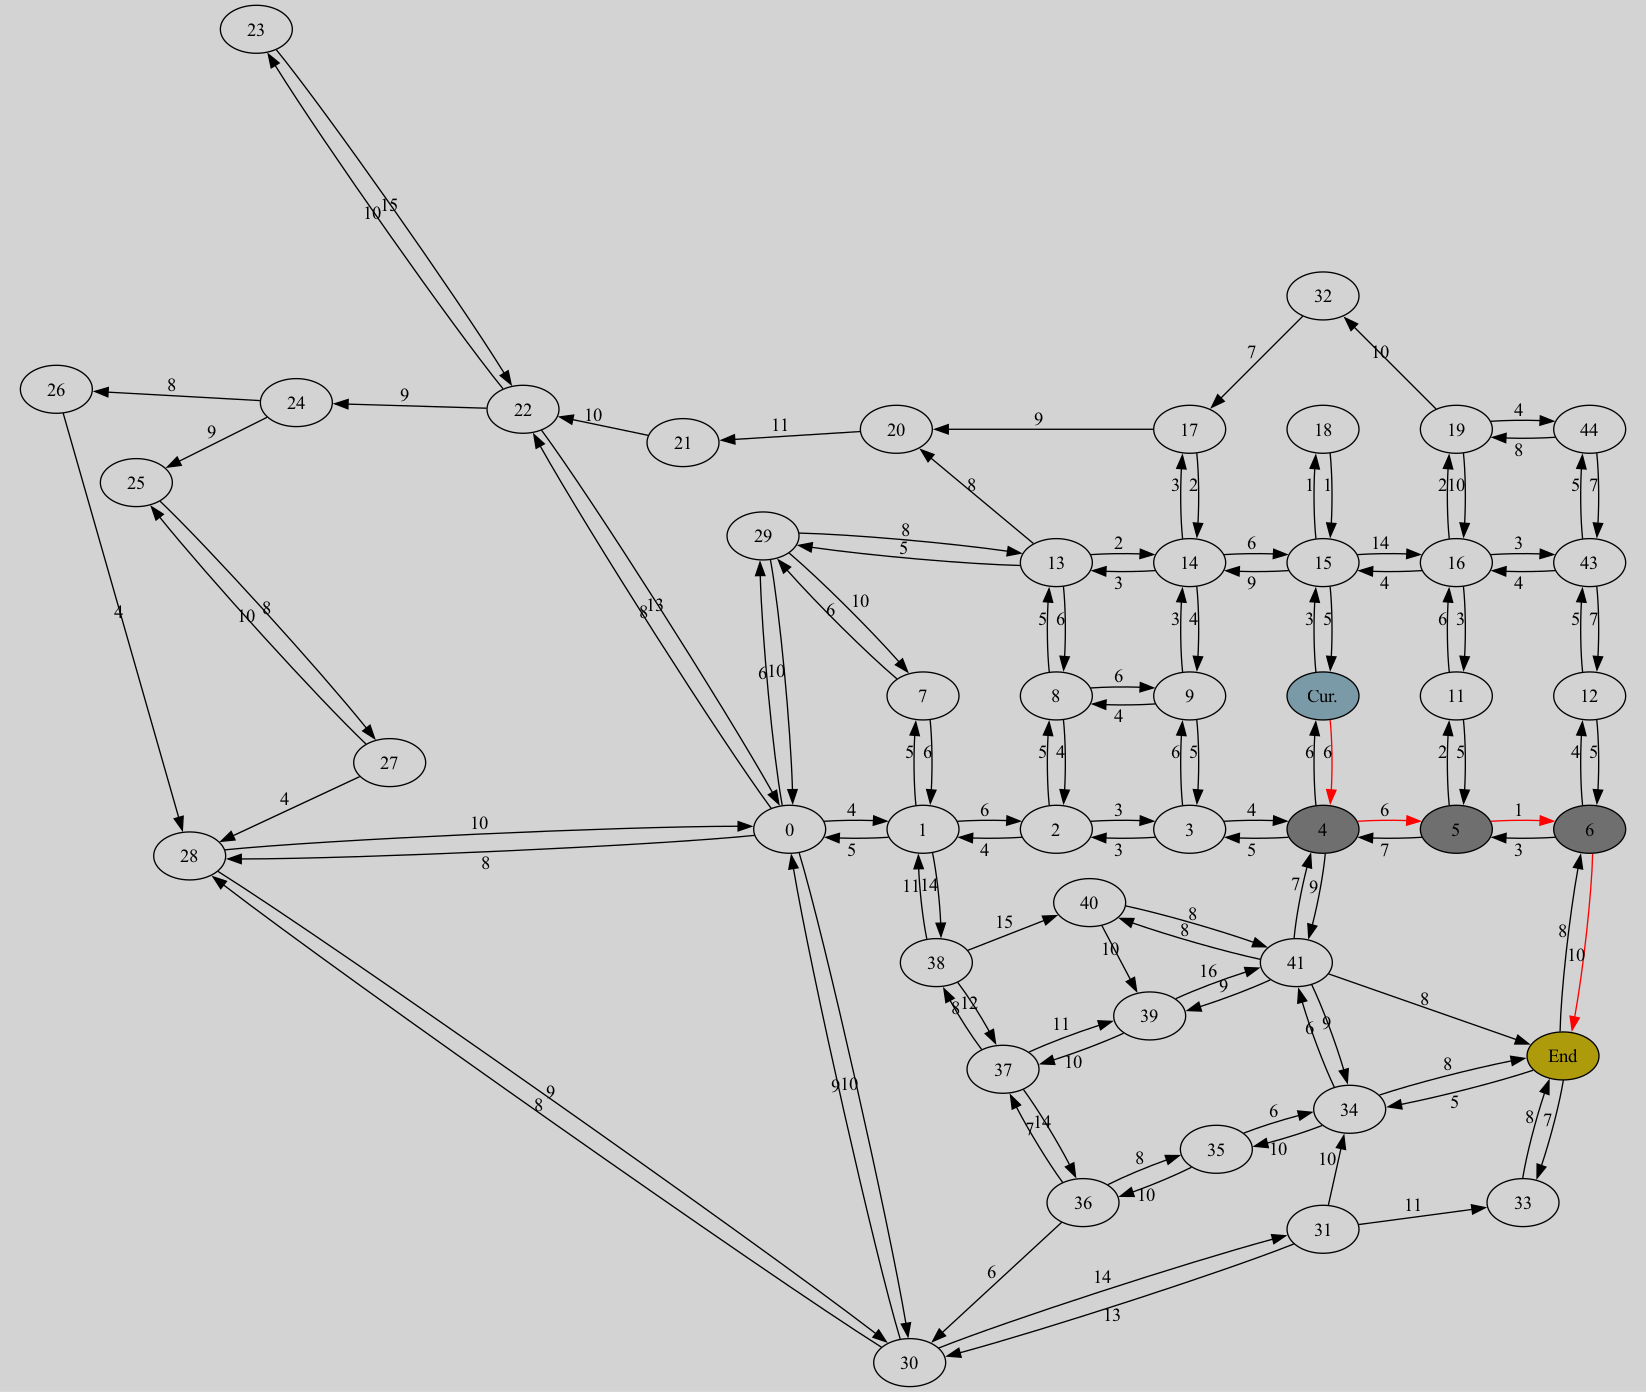
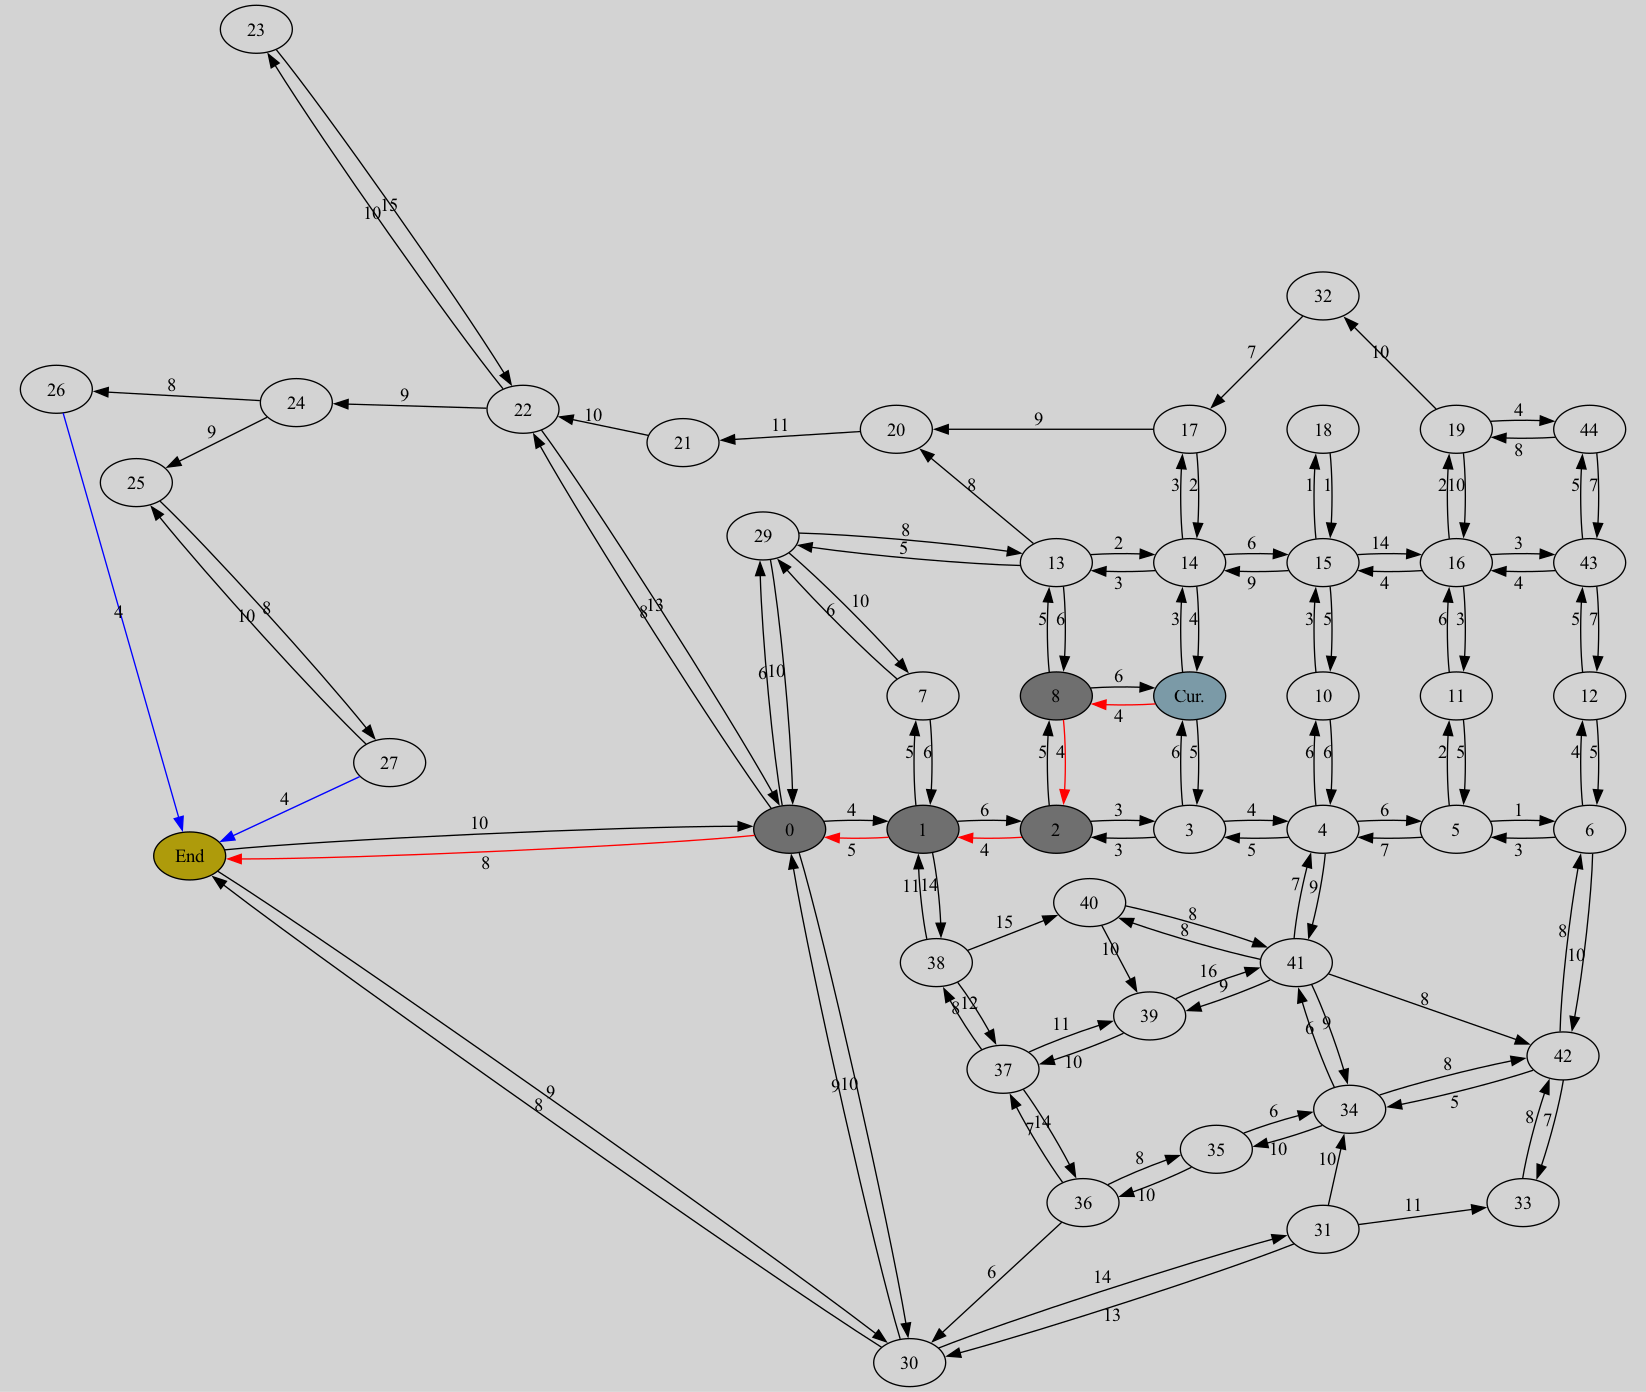
Perform tests

diff --git a/static/test.html b/static/test.html
@@ -131,24 +131,23 @@
                 The image is generated dynamically from C++ programs running on the server. Weights are attached to every arrow (edge, or road).
                 <red>Red</red> arrows represent the paths that the algorithm found. In any given iteration, I left colored all paths explored, in order to show the 
                 algorithm's 'thought process,' so to speak. In the multi-threaded approach in particular, <blu>blue</blu> arrows represent 
-                the path corrected by the auxiliary thread, while the <red>red</red> arrows represent aberrant 
-                <strong>A*</strong> path choices that would have resulted in a wrong decision if we hadn't had the auxiliary thread.
+                the auxiliary thread path, while the <red>red</red> arrows represent <strong>A*</strong> path. One can see the two threads working together to find the shortest path.
             </p>
             <p style="font-size: 15px;">
-                My goal was to find an algorithm that starts at a randomly chosen beginning node ("Cur") and reaches a random destination node ("End"), in the least amount of edge explorations as possible. 
+                My goal was to find an algorithm that finds the shortest path from a random beginning node ("Cur") to a random destination node ("End"), with the lowest amount of computation time possible. 
                 I started with plain <strong>Dijkstra's Algorithm</strong>, but quickly realized how 
-                computationally expensive it is, due to it exploring every node around the starting node. Then I implemented the <strong>A* Algorithm</strong> and 
-                was excited that it took very few path searches. However,
+                computationally expensive it is, due to it exploring every node around the starting node. <strong>Dijkstra's Algorithm</strong> averaged <strong>114.814</strong> microseconds of computation. Then I implemented the <strong>A* Algorithm</strong> and 
+                was excited that it took very few path searches, as it averaged <strong>35.845</strong> microseconds of computation time. However,
                 I realized that this algorithm sometimes stumbled upon incorrect answers (paths that are not the shortest path)
-                because heuristic weighting is not perfect. I then put together a
+                because heuristic weighting is not perfect for this type of graph. I then put together a
                 <strong>Multi-Threaded A*</strong> algorithm that used a main thread based on 
                 <strong>A*</strong>, with an auxiliary thread that spawned on main thread activation.
                 This auxiliary thread is essentially <strong>Dijkstra's Algorithm</strong>. Additionally,
                 I added logic to make sure that the <strong>Multi-Threaded Algorithm</strong> 
                 completes when the main and auxiliary thread paths connect. This parallel algorithm 
                 highly decreased the amount of edges searched compared to 
-                <strong>Dijkstra's Algorithm</strong>, while still maintaining accuracy (unlike the 
-                <strong>A* Algorithm</strong>). The parallel algorithm is the best of both worlds, utilizing a combination of the other two algorithms.
+                <strong>Dijkstra's Algorithm</strong>, while still maintaining extremely high accuracy (unlike the 
+                <strong>A* Algorithm</strong>). This <strong>Multi-Threaded Algorithm</strong> averaged <strong>73.078</strong> microseconds of computation time. The parallel algorithm is the best of both worlds, utilizing a combination of the other two algorithms.
             </p>
         </div>
     </div>

diff --git a/src/graph/Graph.cpp b/src/graph/Graph.cpp
@@ -94,7 +94,7 @@ std::tuple<Vertex, Vertex> Graph::get_random_vertex_pair() {
 
 std::vector<Edge>& Graph::get_solution_edges() { return solution_edges; }
 
-std::vector<Edge>& Graph::get_thread_solution_edges() { return path_edges; }
+std::vector<Edge>& Graph::get_thread_solution_edges() { return thread_solution_edges; }
 
 void Graph::clear_solution() { solution_edges.clear(); }
 
@@ -118,9 +118,9 @@ void Graph::show_solution(int begin, int end, int iteration) {
         else if (v1.val == end) v1_label = "End";  else if (v2.val == end) v2_label = "End";
         color = "black";
         if (is_solution_edge(edge)) { color = "red"; }
-        if (is_thread_solution_edge(edge)) { color = "blue"; }
+        else if (is_thread_solution_edge(edge)) { color = "blue"; }
         v1_shade_str = "", v2_shade_str ="";
-        if (v1.val != begin and v1.val != end and color == "red")  { v1_shade_str = "fillcolor=\"#6f6f6fff\""; }
+        if (v1.val != begin and v1.val != end and color == "red" )  { v1_shade_str = "fillcolor=\"#6f6f6fff\""; }
         if (v2.val != begin and v2.val != end and color == "red")  { v2_shade_str = "fillcolor=\"#6f6f6fff\""; }
         graph_viz_file << "\t" << v1.val << fmt::format(" [label=\"{}\", {}{}{}", (v1_label), (v1.val == begin ? "fillcolor=\"#7b9aa7ff\"" : ""), (v1.val == end ? "fillcolor=\"#ae9b0bff\"" : ""), v1_shade_str) << fmt::format("pos=\"{},{}!\"]", v1.x, v1.y) << std::endl;
         graph_viz_file << "\t" << v2.val << fmt::format(" [label=\"{}\", {}{}{}", (v2_label), (v2.val == begin ? "fillcolor=\"#7b9aa7ff\"" : ""), (v2.val == end ? "fillcolor=\"#ae9b0bff\"" : ""), v2_shade_str) << fmt::format("pos=\"{},{}!\"]", v2.x, v2.y) << std::endl;
@@ -190,7 +190,7 @@ bool Graph::is_solution_edge(Edge edge) {
 }
 
 bool Graph::is_thread_solution_edge(Edge edge) {
-    for (Edge e : path_edges) {
+    for (Edge e : thread_solution_edges) {
         if (e == edge) { return true; }
     }
     return false;
@@ -258,7 +258,7 @@ signed long Graph::potential(Vertex start, Vertex end) {
 
 void Graph::heuristic_reweight(Edge& edge, Vertex leading_vertex, Vertex end) {
     int heuristic = potential(leading_vertex, end);
-    edge.set_weight(edge.get_weight() + heuristic);
+    edge.set_weight(edge.get_weight() + 0.1*heuristic); // To tone down the heuristic reweighting: alpha = 0.1 
 }
 
 void Graph::reweight(Edge& edge, Vertex leading_vertex, Vertex end) {
@@ -321,7 +321,7 @@ void Graph::Serial_A_Star(Vertex start, Vertex end) {
 
         
         if (visited[end.val] == visited[best.get_destination().val]) {  // If vertex found:
-            std::cout << "We found edge number " << end.val << " with " << best.get_destination().val << " !!" << std::endl;
+            // std::cout << "We found edge number " << end.val << " with " << best.get_destination().val << " !!" << std::endl;
             break;
         }
 
@@ -390,7 +390,7 @@ void Graph::Serial_Dijkstra(Vertex start, Vertex end) {
 
         
         if (visited[end.val] == visited[best.get_destination().val]) {  // If vertex found:
-            std::cout << "We found edge number " << end.val << " with " << best.get_destination().val << " !!" << std::endl;
+            // std::cout << "We found edge number " << end.val << " with " << best.get_destination().val << " !!" << std::endl;
             break;
         }
 
@@ -477,8 +477,9 @@ void Graph::Parallel_A_Star(Vertex start, Vertex end) {
             thread_solution_edges.push_back(best);
 
             if (visited[best.get_source().val].load() == 1) { 
-                connections++;
-               if (connections > adj.size() / 20) return;
+            //     connections++;
+            //    if (connections > adj.size() / 20) return;
+                return;
             }
 
             visited[best.get_source().val] = 2;
@@ -529,24 +530,24 @@ void Graph::Parallel_A_Star(Vertex start, Vertex end) {
 
         if (visited[best.get_destination().val].load() == 2) { // If vertex is found
             t1.join();
-            for (auto e : solution_edges) {
-                if (visited[e.get_destination().val].load() == 2) {
-                    Edge temp_edge = Edge(e.get_source(), e.get_destination(), dist[e.get_source().val] + thread_dist[e.get_destination().val]); //e.get_weight() + thread_dist[e.get_destination().val]);
-                    final_pq.push(temp_edge);
-                }
-            }
+            // for (auto e : solution_edges) {
+            //     if (visited[e.get_destination().val].load() == 2) {
+            //         Edge temp_edge = Edge(e.get_source(), e.get_destination(), dist[e.get_source().val] + thread_dist[e.get_destination().val]); //e.get_weight() + thread_dist[e.get_destination().val]);
+            //         final_pq.push(temp_edge);
+            //     }
+            // }
 
-            Edge connector_edge = final_pq.top(); final_pq.pop();
+            // Edge connector_edge = final_pq.top(); final_pq.pop();
             // Append prev 
-            for (int at = connector_edge.get_source().val; at != start.val && at != -1; at = prev[at]) {
-                path_edges.push_back(find_edge(prev[at], at));
-            }
-            std::reverse(path_edges.begin(), path_edges.end());
-            path_edges.push_back(connector_edge);
-            // Append forward
-            for (int at = connector_edge.get_destination().val; at != end.val && at != -1; at = thread_forward[at].val) {
-                path_edges.push_back(find_edge(at, thread_forward[at].val));
-            }
+            // for (int at = connector_edge.get_source().val; at != start.val && at != -1; at = prev[at]) {
+            //     path_edges.push_back(find_edge(prev[at], at));
+            // }
+            // std::reverse(path_edges.begin(), path_edges.end());
+            // path_edges.push_back(connector_edge);
+            // // Append forward
+            // for (int at = connector_edge.get_destination().val; at != end.val && at != -1; at = thread_forward[at].val) {
+            //     path_edges.push_back(find_edge(at, thread_forward[at].val));
+            // }
             return; // Then we have connected the two partitions
         }
 

diff --git a/src/DeltaField.cpp b/src/DeltaField.cpp
@@ -6,7 +6,7 @@
 
 DeltaField::DeltaField(Graph Graph_Input) : G(Graph_Input) {}
 
-void DeltaField::specified_dijkstra_activation(Vertex start, Vertex end) {
+long long DeltaField::specified_dijkstra_activation(Vertex start, Vertex end) {
     int img_index = 0;
     auto start_time = std::chrono::high_resolution_clock::now();
     G.Serial_Dijkstra(start, end);
@@ -14,9 +14,10 @@ void DeltaField::specified_dijkstra_activation(Vertex start, Vertex end) {
     auto duration = duration_cast<std::chrono::microseconds>(end_time - start_time).count();
     std::cout << "This took " << duration << " microseconds\n";
     G.show_solution(start.val, end.val, img_index); 
+    return static_cast<long long>(duration);
 }
 
-void DeltaField::specified_dijkstra_activation(int start_val, int end_val) {
+long long DeltaField::specified_dijkstra_activation(int start_val, int end_val) {
     Vertex start = G.get_vertex(start_val);
     Vertex end = G.get_vertex(end_val);
     int img_index = 0;
@@ -26,9 +27,10 @@ void DeltaField::specified_dijkstra_activation(int start_val, int end_val) {
     auto duration = duration_cast<std::chrono::microseconds>(end_time - start_time).count();
     std::cout << "This took " << duration << " microseconds\n";
     G.show_solution(start.val, end.val, img_index); 
+    return static_cast<long long>(duration);
 }
 
-void DeltaField::specified_standard_activation(Vertex start, Vertex end) {
+long long DeltaField::specified_standard_activation(Vertex start, Vertex end) {
     int img_index = 0;
     auto start_time = std::chrono::high_resolution_clock::now();
     G.Serial_A_Star(start, end);
@@ -36,9 +38,10 @@ void DeltaField::specified_standard_activation(Vertex start, Vertex end) {
     auto duration = duration_cast<std::chrono::microseconds>(end_time - start_time).count();
     std::cout << "This took " << duration << " microseconds\n";
     G.show_solution(start.val, end.val, img_index); 
+    return static_cast<long long>(duration);
 }
 
-void DeltaField::specified_standard_activation(int start_val, int end_val) {
+long long DeltaField::specified_standard_activation(int start_val, int end_val) {
     Vertex start = G.get_vertex(start_val);
     Vertex end = G.get_vertex(end_val);
     int img_index = 0;
@@ -48,10 +51,10 @@ void DeltaField::specified_standard_activation(int start_val, int end_val) {
     auto duration = duration_cast<std::chrono::microseconds>(end_time - start_time).count();
     std::cout << "This took " << duration << " microseconds\n";
     G.show_solution(start.val, end.val, img_index); 
-    
+    return static_cast<long long>(duration);
 }
 
-void DeltaField::specified_multithreaded_activation(Vertex start, Vertex end) {
+long long DeltaField::specified_multithreaded_activation(Vertex start, Vertex end) {
     int img_index = 0;
     auto start_time = std::chrono::high_resolution_clock::now();
     G.Parallel_A_Star(start, end);
@@ -59,9 +62,10 @@ void DeltaField::specified_multithreaded_activation(Vertex start, Vertex end) {
     auto duration = duration_cast<std::chrono::microseconds>(end_time - start_time).count();
     std::cout << "This took " << duration << " microseconds\n";
     G.show_solution(start.val, end.val, img_index); 
+    return static_cast<long long>(duration);
 }
 
-void DeltaField::specified_multithreaded_activation(int start_val, int end_val) {
+long long DeltaField::specified_multithreaded_activation(int start_val, int end_val) {
     Vertex start = G.get_vertex(start_val);
     Vertex end = G.get_vertex(end_val);
     int img_index = 0;
@@ -71,9 +75,10 @@ void DeltaField::specified_multithreaded_activation(int start_val, int end_val) 
     auto duration = duration_cast<std::chrono::microseconds>(end_time - start_time).count();
     std::cout << "This took " << duration << " microseconds\n";
     G.show_solution(start.val, end.val, img_index); 
+    return static_cast<long long>(duration);
 }
 
-void DeltaField::random_dijkstra_activation() {
+long long DeltaField::random_dijkstra_activation() {
     std::tuple<Vertex, Vertex> vertex_pair(G.get_random_vertex_pair());
     Vertex start = std::get<0>(vertex_pair);
     Vertex end = std::get<1>(vertex_pair);
@@ -84,9 +89,10 @@ void DeltaField::random_dijkstra_activation() {
     auto duration = duration_cast<std::chrono::microseconds>(end_time - start_time).count();
     std::cout << "This took " << duration << " microseconds\n";
     G.show_solution(start.val, end.val, img_index); 
+    return static_cast<long long>(duration);
 }
 
-void DeltaField::random_standard_activation() {
+long long DeltaField::random_standard_activation() {
     std::tuple<Vertex, Vertex> vertex_pair(G.get_random_vertex_pair());
     Vertex start = std::get<0>(vertex_pair);
     Vertex end = std::get<1>(vertex_pair);
@@ -97,9 +103,10 @@ void DeltaField::random_standard_activation() {
     auto duration = duration_cast<std::chrono::microseconds>(end_time - start_time).count();
     std::cout << "This took " << duration << " microseconds\n";
     G.show_solution(start.val, end.val, img_index); 
+    return static_cast<long long>(duration);
 }
 
-void DeltaField::random_multithreaded_activation() {
+long long DeltaField::random_multithreaded_activation() {
     std::tuple<Vertex, Vertex> vertex_pair(G.get_random_vertex_pair());
     Vertex start = std::get<0>(vertex_pair);
     Vertex end = std::get<1>(vertex_pair);
@@ -111,4 +118,5 @@ void DeltaField::random_multithreaded_activation() {
     auto duration = duration_cast<std::chrono::microseconds>(end_time - start_time).count();
     std::cout << "This took " << duration << " microseconds\n";
     G.show_solution(start.val, end.val, img_index); 
+    return static_cast<long long>(duration);
 }

diff --git a/src/DeltaField.hpp b/src/DeltaField.hpp
@@ -7,13 +7,13 @@ class DeltaField {
         Graph G;
     public:
         DeltaField(Graph Graph_Input);
-        void specified_dijkstra_activation(Vertex start, Vertex end);
-        void specified_dijkstra_activation(int start_val, int end_val);
-        void specified_standard_activation(Vertex start, Vertex end);
-        void specified_standard_activation(int start_val, int end_val);
-        void specified_multithreaded_activation(Vertex start_val, Vertex end_val);
-        void specified_multithreaded_activation(int start_val, int end_val);
-        void random_dijkstra_activation();
-        void random_standard_activation();
-        void random_multithreaded_activation();
+        long long specified_dijkstra_activation(Vertex start, Vertex end);
+        long long specified_dijkstra_activation(int start_val, int end_val);
+        long long specified_standard_activation(Vertex start, Vertex end);
+        long long specified_standard_activation(int start_val, int end_val);
+        long long specified_multithreaded_activation(Vertex start_val, Vertex end_val);
+        long long specified_multithreaded_activation(int start_val, int end_val);
+        long long random_dijkstra_activation();
+        long long random_standard_activation();
+        long long random_multithreaded_activation();
 };

diff --git a/test/multithreaded_astar.cpp b/test/multithreaded_astar.cpp
@@ -9,4 +9,11 @@ int main() {
 
     DeltaField DF(G);
     DF.random_multithreaded_activation();
+
+    // Enable for time tests
+    // long long count = 0;
+    // for (int i = 0; i < 1000; i++) {
+    //     count += DF.random_multithreaded_activation();;
+    // }
+    // std::cout << "Multithreaded count: " << count << std::endl;
 }

diff --git a/test/dijkstra.cpp b/test/dijkstra.cpp
@@ -9,4 +9,11 @@ int main() {
 
     DeltaField DF(G);
     DF.random_dijkstra_activation();
+
+    // Enable for time tests
+    // long long count = 0;
+    // for (int i = 0; i < 1000; i++) {
+    //     count += DF.random_dijkstra_activation();;
+    // }
+    // std::cout << "Dijkstra count: " << count << std::endl;
 }

diff --git a/test/astar.cpp b/test/astar.cpp
@@ -9,4 +9,11 @@ int main() {
 
     DeltaField DF(G);
     DF.random_standard_activation();
+
+    // Enable for time tests
+    // long long count = 0;
+    // for (int i = 0; i < 1000; i++) {
+    //     count += DF.random_standard_activation();;
+    // }
+    // std::cout << "A* count: " << count << std::endl;
 }
